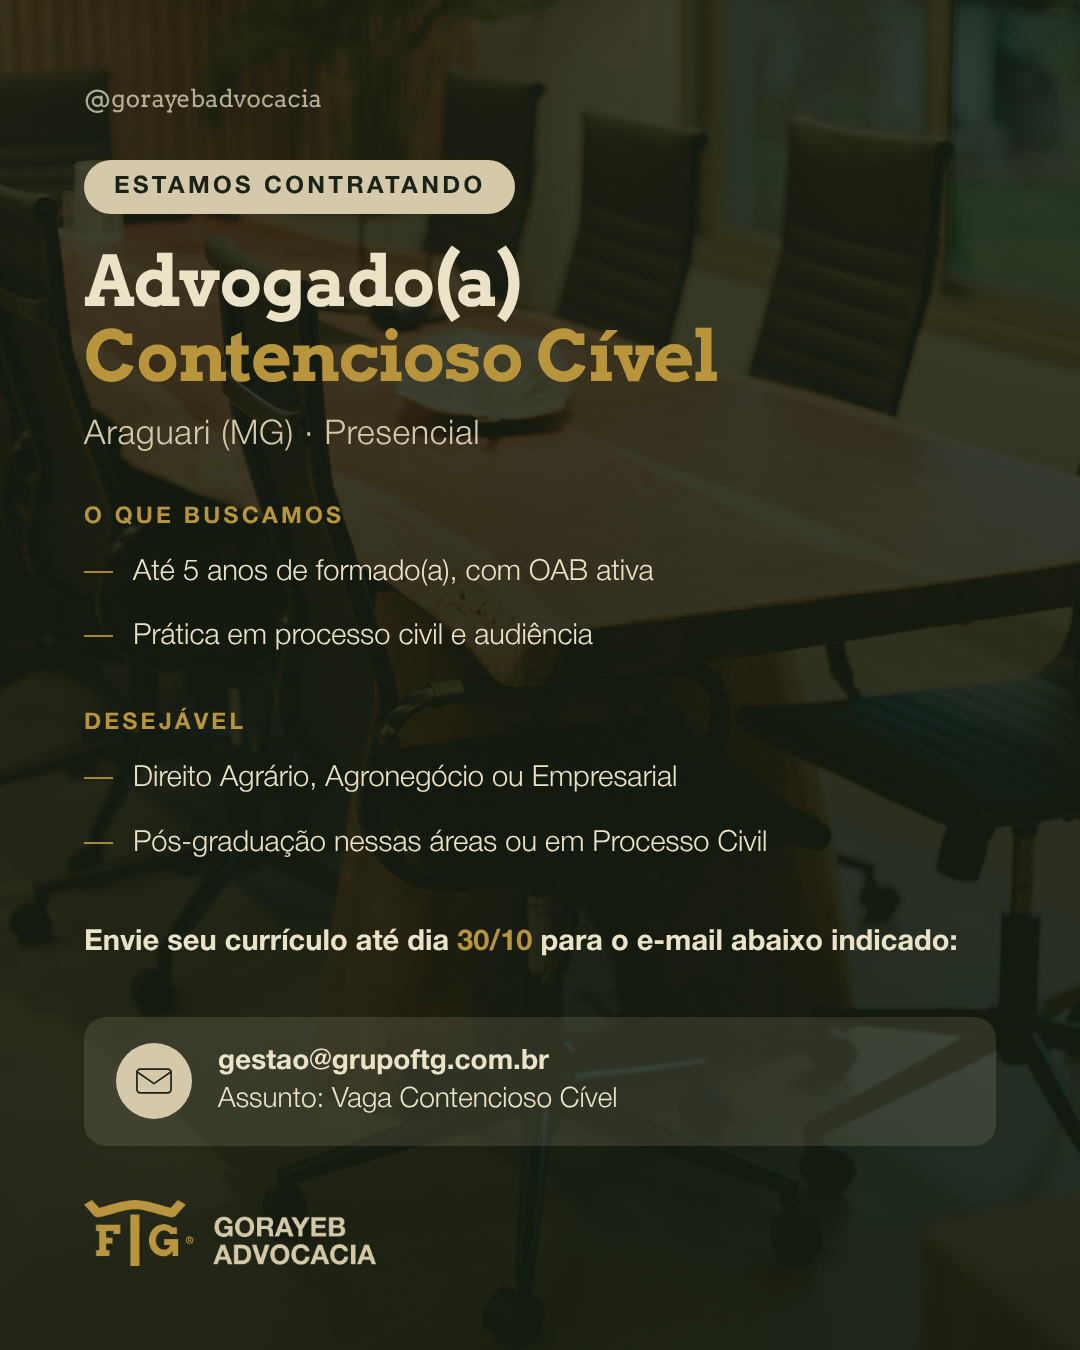
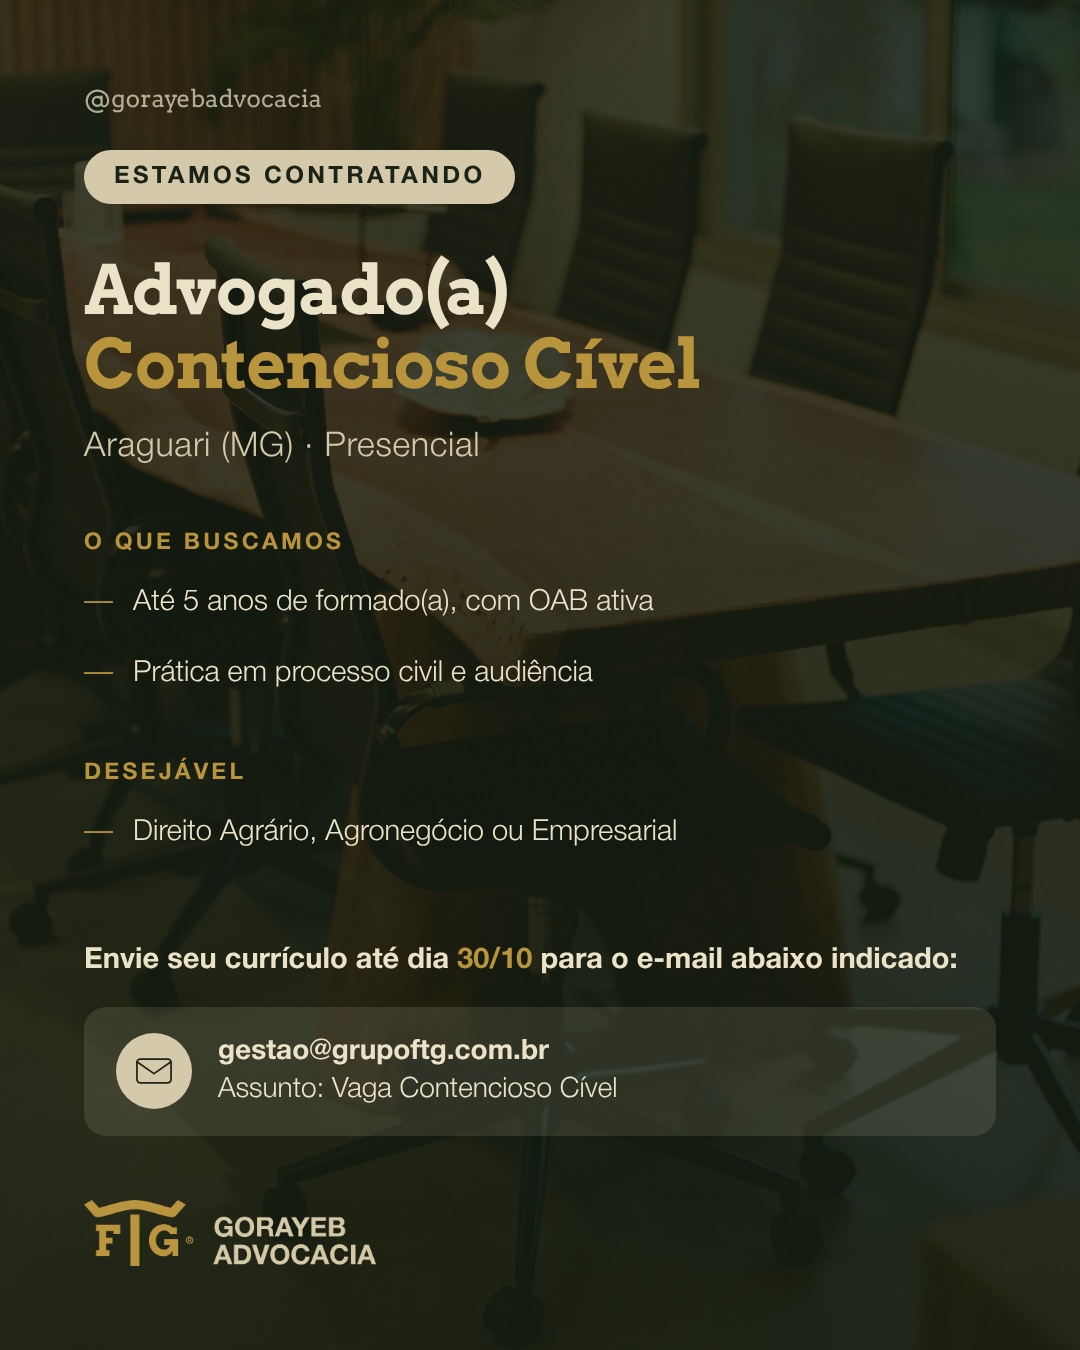
Feed da vaga: corta item em vez de apertar entrelinha
A rodada anterior arejou por espaçamento e não resolveu, porque o
problema era quantidade. Agora:

- a linha da pós-graduação saiu do feed. Continua no stories e na legenda
- o Desejável virou uma linha só
- vão entre blocos de 54 para 68px, e folga maior antes da chamada

Regra nova no formato 01: passando de uns cinco itens entre todos os
blocos, o jeito de arejar o feed é tirar linha, não diminuir corpo.

Claude-Session: https://claude.ai/code/session_01PNm9HeejNLCDTQ5J6fF2k9

diff --git a/docs/gorayeb/template/base.css b/docs/gorayeb/template/base.css
@@ -755,10 +755,15 @@
 
 /* o feed tem 570px a menos que o stories pro mesmo conteúdo, então o corpo
    cede e os vãos aumentam: apertado não se lê */
-.slide.vaga:not(.stories) .vaga-cargo  { font-size: 70px; }
+.slide.vaga:not(.stories) .vaga-cargo  { font-size: 68px; }
 .slide.vaga:not(.stories) .vaga-local  { font-size: 34px; }
-.slide.vaga:not(.stories) .espaco      { height: 54px; }
-.slide.vaga:not(.stories) .vaga-req    { gap: 24px; }
+.slide.vaga:not(.stories) .espaco      { height: 68px; }
+.slide.vaga:not(.stories) .espaco-sm   { height: 30px; }
+.slide.vaga:not(.stories) .vaga-req    { gap: 30px; }
 .slide.vaga:not(.stories) .vaga-req li { font-size: 29px; line-height: 1.4; max-width: 25em; }
-.slide.vaga:not(.stories) .vaga-chamada { font-size: 29px; margin-top: 54px; }
+.slide.vaga:not(.stories) .vaga-bloco-tit { margin-bottom: 28px; }
+.slide.vaga:not(.stories) .vaga-chamada { font-size: 29px; margin-top: 68px; }
+.slide.vaga:not(.stories) .vaga-chamada + .caixa-dado { margin-top: 26px; }
 .slide.vaga:not(.stories) .caixa-dado p { font-size: 28px; }
+.slide.vaga:not(.stories) .arroba { margin-bottom: 36px; }
+.slide.vaga:not(.stories) .rodape { padding-top: 64px; }

diff --git a/docs/gorayeb/diario.md b/docs/gorayeb/diario.md
@@ -292,4 +292,9 @@ Tipos de slide, figuras e ícones estão na tabela do `README.md`.
 - Divergência de propósito, pendente de palavra dela: na arte o desejável diz
   "Direito Agrário, Agronegócio ou Empresarial", do anúncio original; na legenda
   ficou "Agrário e/ou Empresarial", da versão nova.
+- Duas rodadas de "está condensado" no feed da vaga. A primeira resolvi com
+  espaçamento e deu pouco. A segunda era quantidade mesmo: a linha da
+  pós-graduação saiu do feed, o Desejável virou uma linha só, e os vãos entre
+  blocos foram pra 68px. A pós continua no stories e na legenda. Virou regra:
+  respiro vem de cortar item, não de apertar entrelinha.
 

diff --git a/docs/gorayeb/formato-01.md b/docs/gorayeb/formato-01.md
@@ -170,6 +170,9 @@ do mesmo JSON: o slide de stories só leva `formato: "stories"`.
 
 **O feed leva o mínimo que faz alguém se candidatar:** cargo, cidade, presencial
 ou não, dois ou três requisitos de uma linha, e o e-mail com o assunto do envio.
+**Respiro vem de cortar item, não de apertar entrelinha.** Quando a peça passa de
+uns cinco itens entre todos os blocos, o jeito de arejar é tirar linha, não
+diminuir corpo: o que sai do feed continua no stories e na legenda.
 
 **O stories leva muito mais**, porque tem 570px a mais de altura: as atribuições e
 os requisitos em `blocos`, cada um com subtítulo dourado, e o `remate` com
